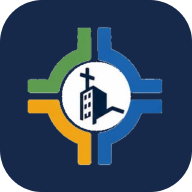
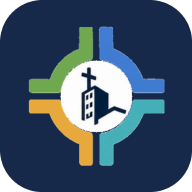
Recolor the mark's four quadrants to the website's values
Canva would only offer three colors to edit. That is not a Canva
limitation: the artwork contains three. Both right-hand quadrants are
one blue, so RECEIVE and GROW share a fill, and a picker that selects by
color cannot tell them apart.

Connect.svg from Drive, uploaded to chase resolution, turned out not to
be vector at all — its whole body is an empty defs plus one image tag
holding a 1248x832 base64 PNG, the same dimensions as the original sheet
and a mean 2.30/255 different from it. Its own metadata declares AI
generated content, and each supposedly flat quadrant holds 150-275
distinct values. This artwork has never existed as editable shapes, so
no re-export will produce vector.

So the recolor selects by position — which side of the mark's centre a
pixel falls on — rather than by color, which is the one operation Canva
cannot perform. Targets are timothystl.org's own value accents read off
the live site. Anti-aliasing survives because each pixel is un-mixed
from white and recomposited rather than flatly replaced.

The first run also recolored the wordmark: "which side of the centre" is
meaningless off the mark, so the blue church-name text and the rule under
CONNECT came out teal. Caught by rendering the login page. Bounded to the
mark, and the affected pixel count fell from 61,677 to 16,259.

All assets regenerated from the corrected sheet and re-sampled: two
quadrants exact, two within 1-2 per channel.
[…]

Changed region(s): [[0.125, 0.125, 0.875, 0.875], [0.25, 0.3125, 0.3125, 0.4062], [0.2188, 0.4062, 0.25, 0.4375]]

diff --git a/src/frontend/js-core.js b/src/frontend/js-core.js
@@ -4,7 +4,7 @@
 // version bump
 // automatically invalidates the long-lived browser cache on those files, with nowhere else that
 // needs updating in step.
-export const DEPLOY_VERSION = '1.181.0';
+export const DEPLOY_VERSION = '1.182.0';
 
 export const JS_CORE = String.raw`<script>
 // ── DEPLOY VERSION ───────────────────────────────────────────────────

diff --git a/NOTES.md b/NOTES.md
@@ -24,6 +24,46 @@ Update it as issues are found, fixed, or queued.
 
 ## Recent Changes
 
+### v1.182.0 — The mark's four quadrants recolored to the website's values (2026-08-16)
+
+Canva would only offer three colors to edit. **That was not a Canva limitation — the artwork
+contains three.** Both right-hand quadrants are one blue, so RECEIVE and GROW share a fill and
+Canva, which selects by color, cannot tell them apart. Confirmed three ways: sampling the
+quadrants, counting distinct colors across the whole mark, and Canva's own picker.
+
+**`Connect.svg` from Drive is not vector.** Uploaded to chase resolution; its entire body is
+`<defs/>` plus one `<image>` holding a 1248x832 base64 PNG — zero paths. Same dimensions as the
+original sheet; compared pixel-by-pixel over the mark, mean difference **2.30/255**, i.e. the same
+picture. Its own metadata says `<ContainsAiGeneratedContent>Yes</ContainsAiGeneratedContent>` with
+a C2PA manifest, and each "flat" quadrant holds 150-275 distinct values. **This artwork has never
+existed as editable shapes, so no re-export will produce vector** — that needs a redraw.
+
+**Recolored by POSITION, which is the one thing Canva cannot do**: which side of the mark's centre
+a pixel falls on, rather than what color it is. Targets are timothystl.org's own value accents,
+read off the live site: WELCOME `#6FA84E` / RECEIVE `#3E7BD1` / GROW `#45AFB8` / GO `#E8A93C`.
+
+**Anti-aliasing is preserved by un-mixing, not replacing.** Each pixel is `a*C_src + (1-a)*white`;
+solving for coverage and recompositing with the new color keeps every soft edge. A flat replace
+would have left jaggies at every boundary.
+
+**⚠ The first run recolored the wordmark too.** "Which side of the centre" is meaningless once you
+leave the mark, so the blue "TIMOTHY LUTHERAN CHURCH" text and the rule under CONNECT — both
+down-and-right of the mark — came out teal. Caught by rendering the login page, not by reading the
+code. Fixed with an `R_OUTER = 125` bound; the pixel count fell from 61,677 to 16,259.
+
+Every asset regenerated from the corrected sheet: mark, lockup, all six icon PNGs, favicon.
+Verified by re-sampling the finished mark — two quadrants exact, two within 1-2 per channel (the
+un-mixing working against noisy source pixels).
+
+**⚠ Second version collision in one evening.** `origin/main` was already at `1.181.0` from a
+parallel session by the time this was ready, so this ships as `1.182.0`. **Re-reading
+`DEPLOY_VERSION` from `origin/main` immediately before pushing is what caught it** — the practice
+recorded in v1.180.0, now proven twice.
+
+`npm test` (1390/1390, unchanged — assets only). Plus CSS brace balance and div balance on both
+shells and the login page. **Not verified**: a live browser. **What this does NOT fix**: sharpness.
+The source is still ~240px, so the 512 icon remains an upscale. (`icons/*`, `favicon.svg`)
+
 ### v1.181.0 — SC13: links go to esv.org; the full ESV text can be embedded (2026-08-16)
 
 Asked, after SC12: *"can we embed the actual ESV text in the email? or have a link to the esv

diff --git a/CLAUDE.md b/CLAUDE.md
@@ -470,6 +470,21 @@ Use this as the session-to-session roadmap. Complete one phase fully before star
 
 ## Queued Items (add new ones here during sessions)
 
+### BRAND5 — Mark recolored to the website's four values (2026-08-16, DONE)
+- **Canva offering only three colors was the artwork, not Canva**: both right quadrants are one
+  blue, so RECEIVE and GROW share a fill and a color-based picker cannot separate them.
+- **⚠ `Connect.svg` (Drive) is a raster in an SVG wrapper** — `<defs/>` + one `<image>`, zero
+  paths, same 1248x832, mean difference 2.30/255 vs the original sheet. Its metadata declares
+  `ContainsAiGeneratedContent`. **No re-export will yield vector; only a redraw will.**
+- **Recolor selects by POSITION** (side of the mark's centre), which is exactly what Canva cannot
+  do. Targets are timothystl.org's live value accents, not the sheet's legend.
+- **Edges preserved by un-mixing** `a*C_src + (1-a)*white` and recompositing, never a flat replace.
+- **⚠ Bound the recolor to the mark (`R_OUTER`)** — unbounded, the quadrant test also caught the
+  blue "TIMOTHY LUTHERAN CHURCH" text and turned it teal. Found by rendering, not by reading.
+- **⚠ Check `DEPLOY_VERSION` on `origin/main` right before pushing.** Two collisions in one
+  evening from parallel sessions; this shipped as 1.182.0 because 1.181.0 was taken mid-work.
+- Does **not** fix sharpness — source is still ~240px.
+
 ### BRAND4 — Login uses the designer's lockup artwork (2026-08-16, DONE)
 - The sheet was re-sent with no message; **it is byte-identical to the original upload** (same
   sha256). No new resolution — BRAND2's 240px ceiling and missing teal still stand. **Check the
